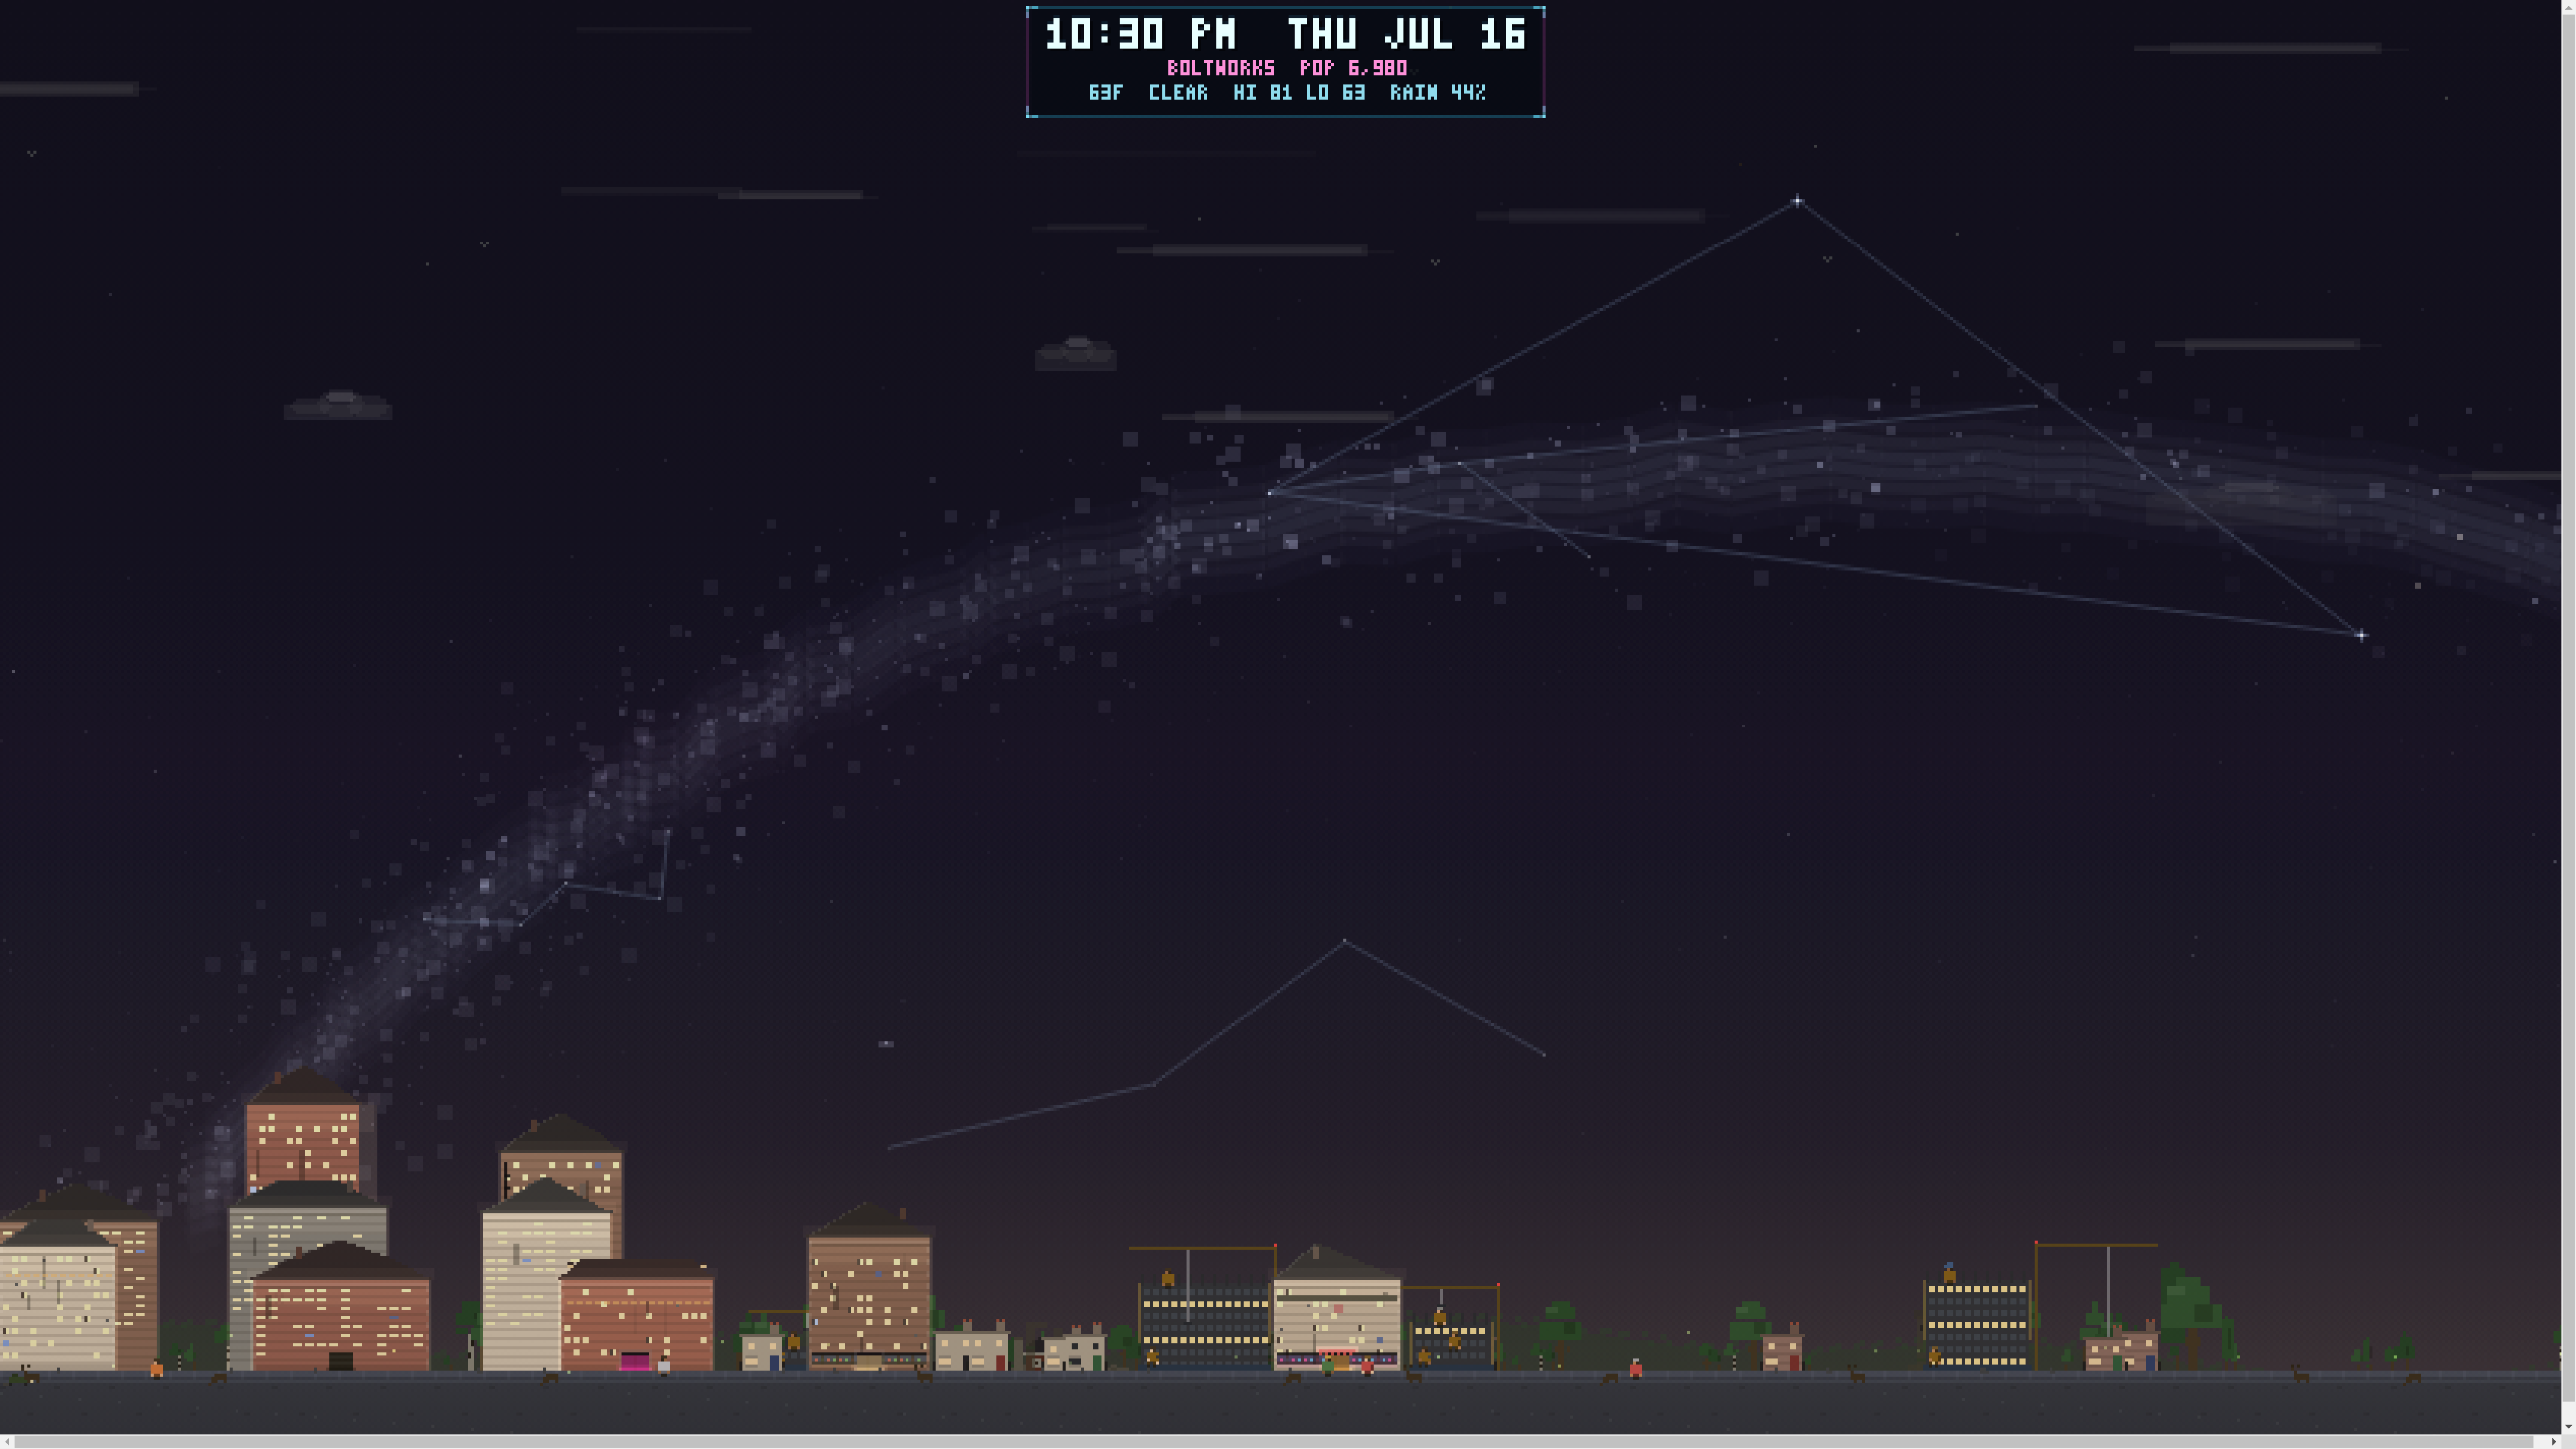
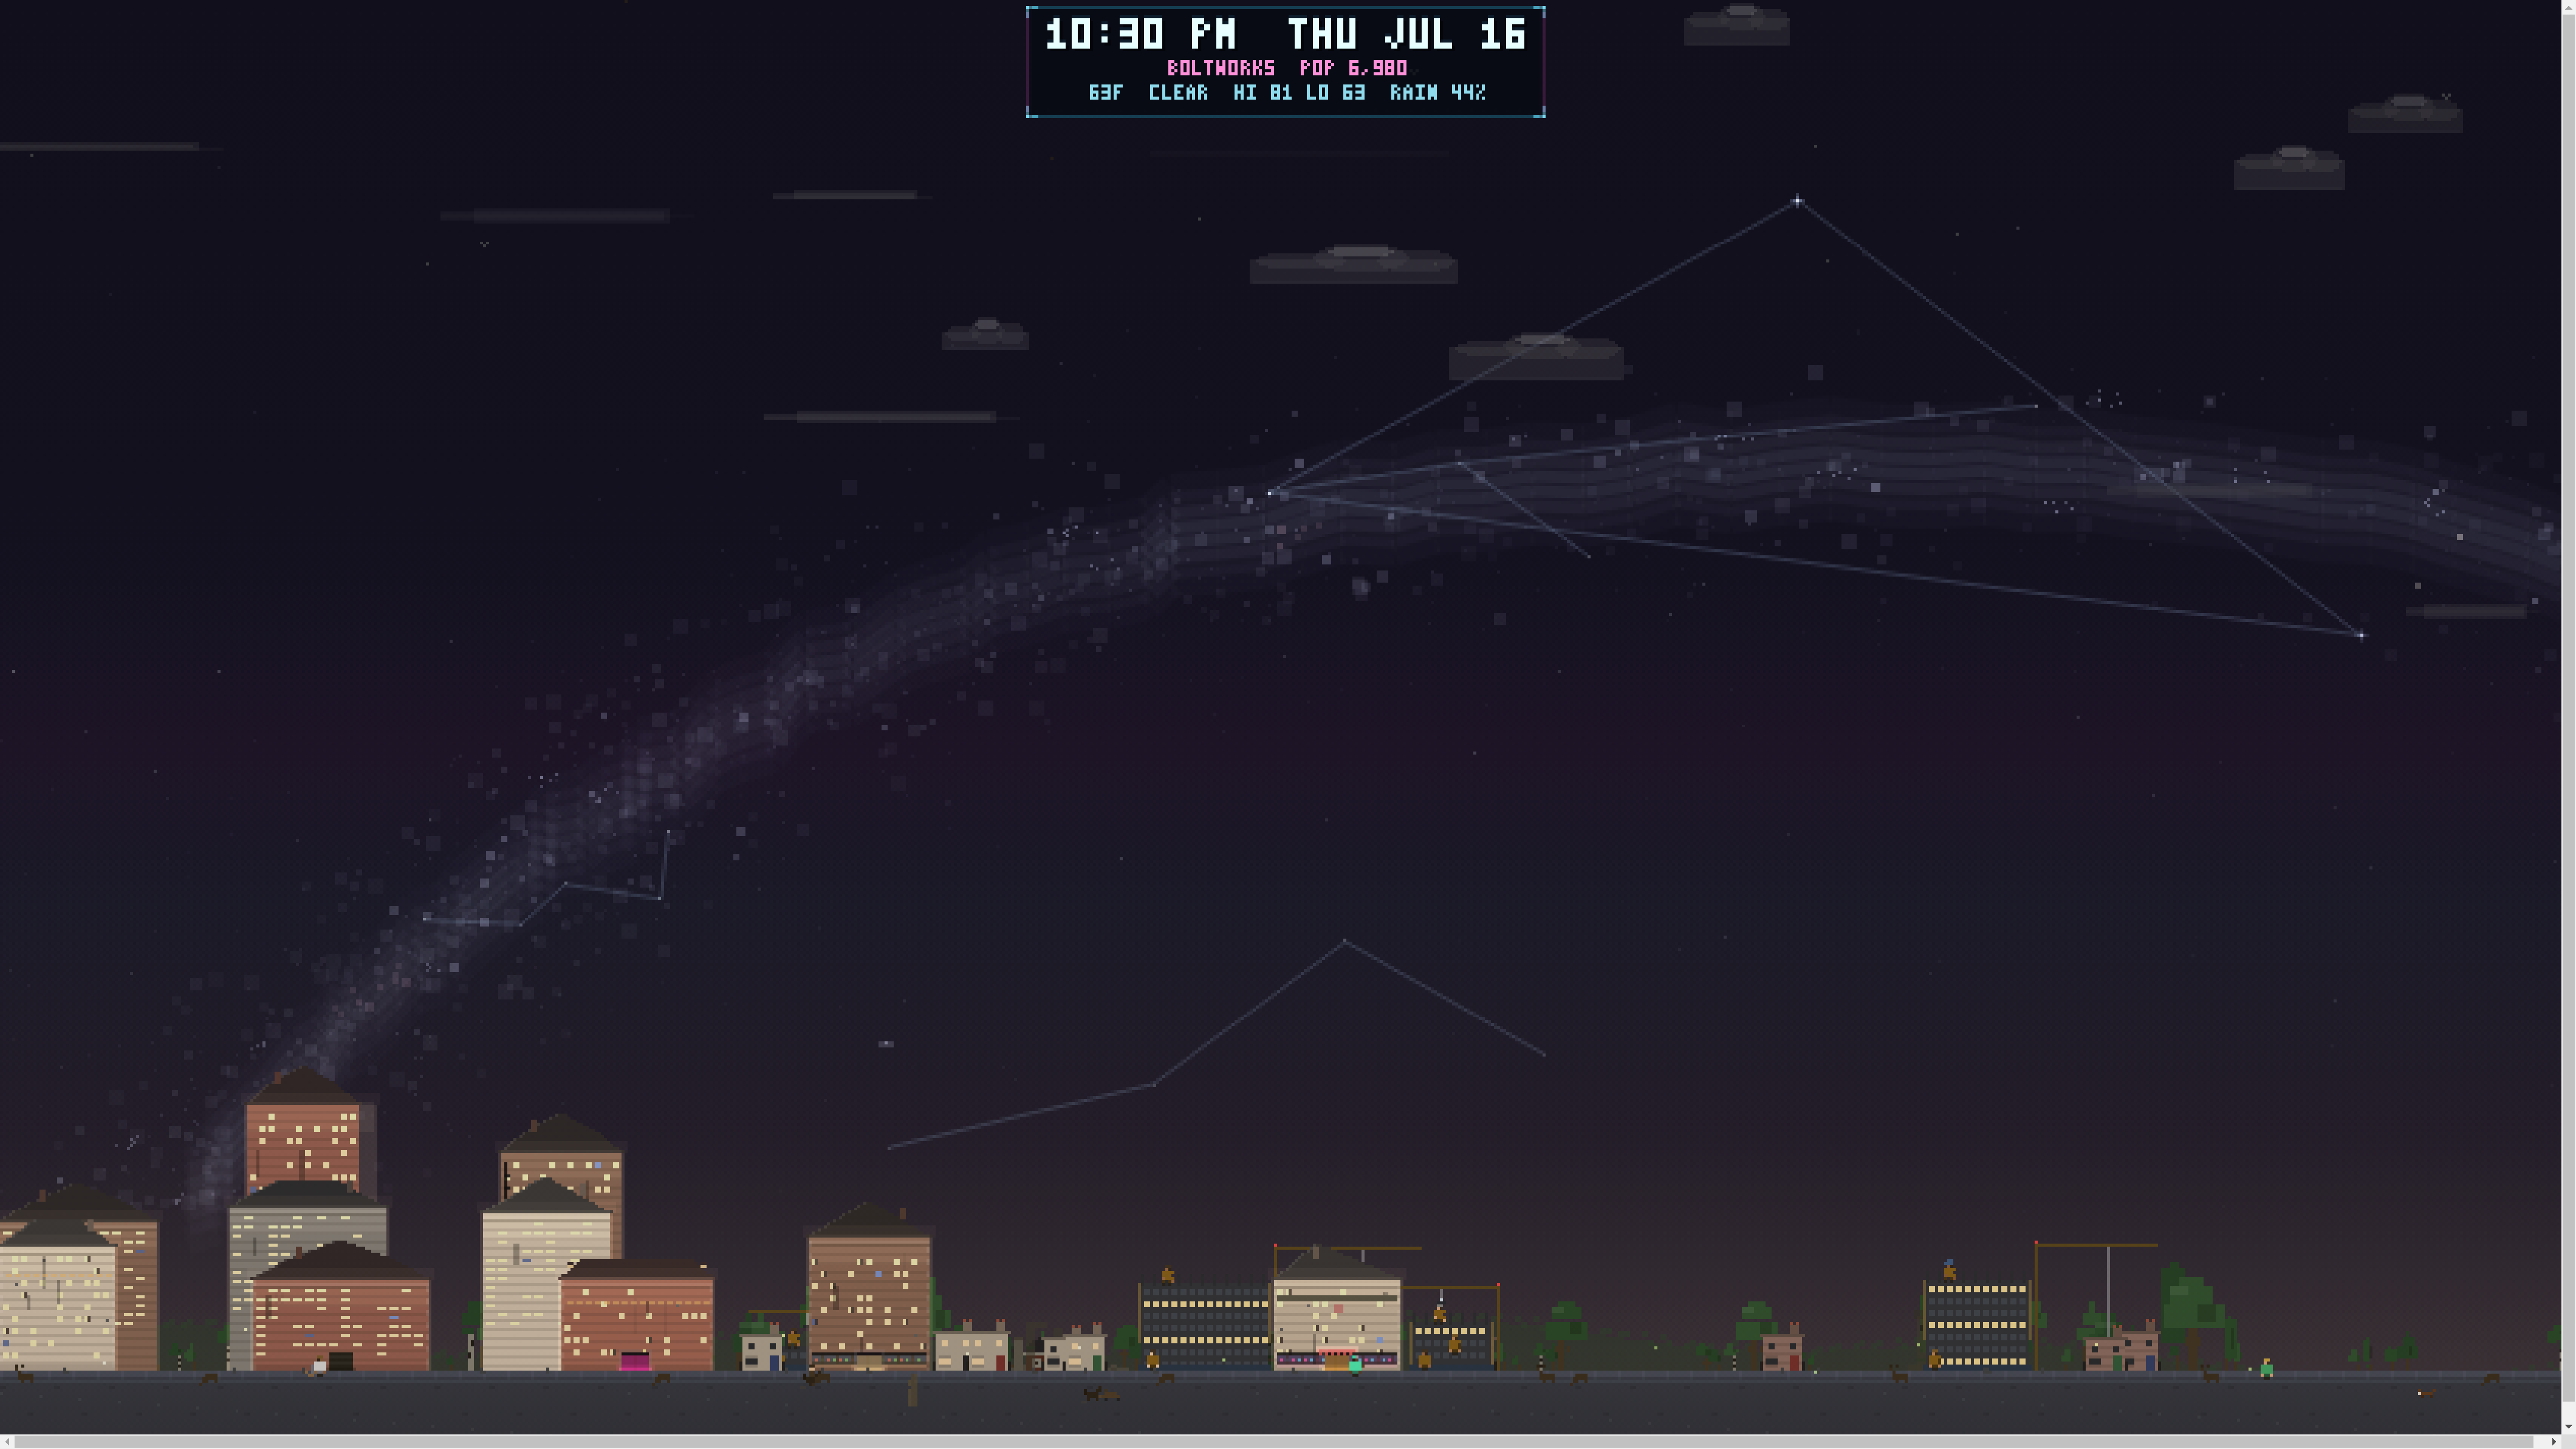
Polish: Milky Way v4 — cloud detail (Nick: 'more detail, better start')
- RAGGED rift edges: deterministic wobble on all three dust-channel boundaries — torn, not ruled.
- 26 scattered DARK CLOUDLETS pock the band with small dust holes beyond the big rift.
- PATCHY CLUMPING field billows the brightness along the band (cloud texture, not fog);
  applied strongly to the grain, gently to the haze body.
- EMISSION NEBULAE (c=2 rose H-alpha): Lagoon/Omega/Eagle at the core, North America by
  Deneb, Heart & Soul in Cassiopeia, Rho Oph, Vela — 8 rosy patches at their real homes.
- 22 EMBEDDED STAR CLUSTERS: tight sparkling knots of resolved stars riding the band.
- Perf 7.2ms. qml sweep (34) SWEEP_OK. Synced x4.

Claude-Session: https://claude.ai/code/session_01Fcpq7p4KAqg44eJBRLN5J2

diff --git a/desktop/renderer/city.js b/desktop/renderer/city.js
@@ -501,11 +501,19 @@ function buildMilkyWay(){
   // band at VISUAL width: latitude spreads here are ~3x the real sky so the river occupies a real slab of
   // screen the way it does in a wide-angle astrophoto.
   function riftK(l,b){                                              // 0=deep dust … 1=clear
-    if((l<=66)&&(b>-7&&b<1.0)) return 0;                            // main rift channel (Aquila→Sagittarius)
-    if((l>=24&&l<=58)&&(b>2.6&&b<5.8)) return 0.25;                 // thinner northern filament (braided look)
-    if((l>=62&&l<=84)&&(b>-4.6&&b<1.8)) return 0.15;                // the Cygnus rift (the split starts at the Northern Cross)
+    var e1=Math.sin(l*0.31)*1.6+Math.sin(l*0.83)*0.9;               // RAGGED channel edges (deterministic wobble),
+    var e2=Math.sin(l*0.47+2)*1.2+Math.sin(l*1.1)*0.6;              // so the dust looks torn, not ruled
+    if((l<=66)&&(b>-7+e1&&b<1.0+e2)) return 0;                      // main rift channel (Aquila→Sagittarius)
+    if((l>=24&&l<=58)&&(b>2.6+e2*0.5&&b<5.8+e1*0.5)) return 0.25;   // thinner northern filament (braided look)
+    if((l>=62&&l<=84)&&(b>-4.6+e1&&b<1.8+e2)) return 0.15;          // the Cygnus rift (the split starts at the Northern Cross)
     return 1;
   }
+  // scattered DARK CLOUDLETS — small torn holes of dust pocking the band (beyond the big rift)
+  var DKP=[]; for(var dk=0;dk<26;dk++) DKP.push({l:r()*360, b:gB(7), rad:1.5+r()*3});
+  function darkK(l,b){ for(var q=0;q<DKP.length;q++){ var P=DKP[q], dl=Math.abs(l-P.l); if(dl>180) dl=360-dl;
+      if(dl*dl+(b-P.b)*(b-P.b)<P.rad*P.rad) return 0.25; } return 1; }
+  // PATCHY CLUMPING — the band's brightness billows and thins along its length (cloud texture, not gradient)
+  function clumpK(l,b){ return 0.62+0.38*Math.sin(l*0.9+b*0.8)*Math.sin(l*0.23+1.7)+0.18*Math.sin(l*2.1+b*1.9); }
   for(var l2=0;l2<360;l2+=1){
     var d02=Math.min(l2,360-l2), bulge2=d02<50?(1-d02/50):0;        // the core bulge is BIG in a real sky
     var cloud=1 + 1.5*bulge2                                        // Sagittarius core glow
@@ -516,16 +524,19 @@ function buildMilkyWay(){
       var bh2=gB(10)*(1+0.8*bulge2);
       var wh2=(0.050+0.070*cloud)*Math.max(0.10,1-Math.abs(bh2)/22);
       var rk2=riftK(l2,bh2); wh2*=(0.35+0.65*rk2);
+      wh2*=Math.max(0.45,clumpK(l2,bh2));                            // the cloud body billows too (gentler than the grain)
       if(r()<0.10) continue;
       var eh2=galToEq(l2+r()-0.5,bh2);
       MWDABS.push({ra:eh2[0],dec:eh2[1],w:wh2,sz:(h2===0?5:(h2===1?4:3)),c:(bulge2>0.35&&r()<0.55)?1:0});
     }
-    // layer 2 — GRAIN: the fine mottle of millions of unresolved stars (the rift cuts these hard)
+    // layer 2 — GRAIN: the fine mottle of millions of unresolved stars (the rift cuts these hard;
+    // cloudlets poke holes; clumping billows the brightness so the texture reads like cloud, not fog)
     var n=(l2%2===0)?5:4;
     for(var s2=0;s2<n;s2++){
       var b2=gB(8)*(1+0.8*bulge2)+gB(4);
       var wgt=(0.08+0.10*cloud)*Math.max(0.12,1-Math.abs(b2)/24);
       var rk3=riftK(l2,b2); wgt*=(0.08+0.92*rk3);
+      wgt*=darkK(l2,b2)*Math.max(0.25,clumpK(l2,b2));
       if(r()<0.12) continue;
       var e2=galToEq(l2+r()-0.5,b2);
       MWDABS.push({ra:e2[0],dec:e2[1],w:wgt,sz:(r()<0.30?2:1),c:(bulge2>0.3&&r()<0.6)?1:0});
@@ -538,6 +549,16 @@ function buildMilkyWay(){
   }
   for(var k=0;k<90;k++){ var kl=r()*360, kd=Math.min(kl,360-kl);    // bright knots & clumps riding the band
     var kk=galToEq(kl,gB(7)); MWDABS.push({ra:kk[0],dec:kk[1],w:0.20+0.15*r()*(kd<55?1.5:1),sz:(r()<0.4?3:2),c:(kd<55&&r()<0.55)?1:0}); }
+  // EMISSION NEBULAE — the rosy H-alpha patches of the real band, at their real homes: Lagoon & Omega &
+  // Eagle (near the core), the North America nebula by Deneb, the Heart & Soul in Cassiopeia
+  var NEBS=[[6,-1.5],[15,-0.8],[17,0.8],[85,-1.2],[134,0.9],[137,1.2],[353,1.4],[265,-1.4]];
+  for(var nb=0;nb<NEBS.length;nb++){ var NB=NEBS[nb];
+    for(var np=0;np<5;np++){ var ne9=galToEq(NB[0]+gB(1.4),NB[1]+gB(1.1));
+      MWDABS.push({ra:ne9[0],dec:ne9[1],w:0.10+0.10*r(),sz:(np===0?3:2),c:2}); } }                     // c=2 → rose glow
+  // EMBEDDED STAR CLUSTERS — tight sparkling knots of resolved stars sitting IN the band
+  for(var cl9=0;cl9<22;cl9++){ var cll=r()*360, clb=gB(6);
+    for(var cs9=0,cn9=4+((r()*3)|0);cs9<cn9;cs9++){ var ce9=galToEq(cll+gB(0.9),clb+gB(0.7));
+      MWDABS.push({ra:ce9[0],dec:ce9[1],w:0.26+0.18*r(),sz:1,c:0}); } }
 }
 
 // draw the real Norwich star field + moon (only when dark & clear)
@@ -1651,7 +1672,9 @@ function drawSky(g,now,nd,L,fx){
   for(var di=0;di<MWDABS.length;di+=mwStride){ var dd=MWDABS[di], da=altAz(dd.ra,dd.dec,lst); if(da.alt<2) continue;
     var vfd=Math.min(1,(1-lpK)*(da.alt>50?1.5:1)), dma=dd.w*fade*vfd; if(dma<0.02) continue;
     var dwx=skyWX(da.az), dwy=skyY(da.alt);
-    g.fillStyle=dd.c?("rgba(240,228,200,"+dma.toFixed(3)+")"):("rgba(212,220,246,"+dma.toFixed(3)+")");
+    g.fillStyle=dd.c===2?("rgba(248,186,200,"+dma.toFixed(3)+")")                       // rose H-alpha nebulae
+               :dd.c===1?("rgba(240,228,200,"+dma.toFixed(3)+")")                       // warm-gold core clouds
+               :("rgba(212,220,246,"+dma.toFixed(3)+")");                               // blue-white starlight
     for(var dw=-1;dw<=1;dw++){ var dsx=dwx-WOFF+dw*WW; if(dsx<-2||dsx>SW+2) continue; g.fillRect(dsx|0,dwy|0,dd.sz,dd.sz); } }
   // ANDROMEDA — the faint elongated smudge of M31, the farthest thing a naked eye can reach
   var anda=altAz(0.712,41.27,lst);

diff --git a/org.citylive.wallpaper/contents/js/city.js b/org.citylive.wallpaper/contents/js/city.js
@@ -501,11 +501,19 @@ function buildMilkyWay(){
   // band at VISUAL width: latitude spreads here are ~3x the real sky so the river occupies a real slab of
   // screen the way it does in a wide-angle astrophoto.
   function riftK(l,b){                                              // 0=deep dust … 1=clear
-    if((l<=66)&&(b>-7&&b<1.0)) return 0;                            // main rift channel (Aquila→Sagittarius)
-    if((l>=24&&l<=58)&&(b>2.6&&b<5.8)) return 0.25;                 // thinner northern filament (braided look)
-    if((l>=62&&l<=84)&&(b>-4.6&&b<1.8)) return 0.15;                // the Cygnus rift (the split starts at the Northern Cross)
+    var e1=Math.sin(l*0.31)*1.6+Math.sin(l*0.83)*0.9;               // RAGGED channel edges (deterministic wobble),
+    var e2=Math.sin(l*0.47+2)*1.2+Math.sin(l*1.1)*0.6;              // so the dust looks torn, not ruled
+    if((l<=66)&&(b>-7+e1&&b<1.0+e2)) return 0;                      // main rift channel (Aquila→Sagittarius)
+    if((l>=24&&l<=58)&&(b>2.6+e2*0.5&&b<5.8+e1*0.5)) return 0.25;   // thinner northern filament (braided look)
+    if((l>=62&&l<=84)&&(b>-4.6+e1&&b<1.8+e2)) return 0.15;          // the Cygnus rift (the split starts at the Northern Cross)
     return 1;
   }
+  // scattered DARK CLOUDLETS — small torn holes of dust pocking the band (beyond the big rift)
+  var DKP=[]; for(var dk=0;dk<26;dk++) DKP.push({l:r()*360, b:gB(7), rad:1.5+r()*3});
+  function darkK(l,b){ for(var q=0;q<DKP.length;q++){ var P=DKP[q], dl=Math.abs(l-P.l); if(dl>180) dl=360-dl;
+      if(dl*dl+(b-P.b)*(b-P.b)<P.rad*P.rad) return 0.25; } return 1; }
+  // PATCHY CLUMPING — the band's brightness billows and thins along its length (cloud texture, not gradient)
+  function clumpK(l,b){ return 0.62+0.38*Math.sin(l*0.9+b*0.8)*Math.sin(l*0.23+1.7)+0.18*Math.sin(l*2.1+b*1.9); }
   for(var l2=0;l2<360;l2+=1){
     var d02=Math.min(l2,360-l2), bulge2=d02<50?(1-d02/50):0;        // the core bulge is BIG in a real sky
     var cloud=1 + 1.5*bulge2                                        // Sagittarius core glow
@@ -516,16 +524,19 @@ function buildMilkyWay(){
       var bh2=gB(10)*(1+0.8*bulge2);
       var wh2=(0.050+0.070*cloud)*Math.max(0.10,1-Math.abs(bh2)/22);
       var rk2=riftK(l2,bh2); wh2*=(0.35+0.65*rk2);
+      wh2*=Math.max(0.45,clumpK(l2,bh2));                            // the cloud body billows too (gentler than the grain)
       if(r()<0.10) continue;
       var eh2=galToEq(l2+r()-0.5,bh2);
       MWDABS.push({ra:eh2[0],dec:eh2[1],w:wh2,sz:(h2===0?5:(h2===1?4:3)),c:(bulge2>0.35&&r()<0.55)?1:0});
     }
-    // layer 2 — GRAIN: the fine mottle of millions of unresolved stars (the rift cuts these hard)
+    // layer 2 — GRAIN: the fine mottle of millions of unresolved stars (the rift cuts these hard;
+    // cloudlets poke holes; clumping billows the brightness so the texture reads like cloud, not fog)
     var n=(l2%2===0)?5:4;
     for(var s2=0;s2<n;s2++){
       var b2=gB(8)*(1+0.8*bulge2)+gB(4);
       var wgt=(0.08+0.10*cloud)*Math.max(0.12,1-Math.abs(b2)/24);
       var rk3=riftK(l2,b2); wgt*=(0.08+0.92*rk3);
+      wgt*=darkK(l2,b2)*Math.max(0.25,clumpK(l2,b2));
       if(r()<0.12) continue;
       var e2=galToEq(l2+r()-0.5,b2);
       MWDABS.push({ra:e2[0],dec:e2[1],w:wgt,sz:(r()<0.30?2:1),c:(bulge2>0.3&&r()<0.6)?1:0});
@@ -538,6 +549,16 @@ function buildMilkyWay(){
   }
   for(var k=0;k<90;k++){ var kl=r()*360, kd=Math.min(kl,360-kl);    // bright knots & clumps riding the band
     var kk=galToEq(kl,gB(7)); MWDABS.push({ra:kk[0],dec:kk[1],w:0.20+0.15*r()*(kd<55?1.5:1),sz:(r()<0.4?3:2),c:(kd<55&&r()<0.55)?1:0}); }
+  // EMISSION NEBULAE — the rosy H-alpha patches of the real band, at their real homes: Lagoon & Omega &
+  // Eagle (near the core), the North America nebula by Deneb, the Heart & Soul in Cassiopeia
+  var NEBS=[[6,-1.5],[15,-0.8],[17,0.8],[85,-1.2],[134,0.9],[137,1.2],[353,1.4],[265,-1.4]];
+  for(var nb=0;nb<NEBS.length;nb++){ var NB=NEBS[nb];
+    for(var np=0;np<5;np++){ var ne9=galToEq(NB[0]+gB(1.4),NB[1]+gB(1.1));
+      MWDABS.push({ra:ne9[0],dec:ne9[1],w:0.10+0.10*r(),sz:(np===0?3:2),c:2}); } }                     // c=2 → rose glow
+  // EMBEDDED STAR CLUSTERS — tight sparkling knots of resolved stars sitting IN the band
+  for(var cl9=0;cl9<22;cl9++){ var cll=r()*360, clb=gB(6);
+    for(var cs9=0,cn9=4+((r()*3)|0);cs9<cn9;cs9++){ var ce9=galToEq(cll+gB(0.9),clb+gB(0.7));
+      MWDABS.push({ra:ce9[0],dec:ce9[1],w:0.26+0.18*r(),sz:1,c:0}); } }
 }
 
 // draw the real Norwich star field + moon (only when dark & clear)
@@ -1651,7 +1672,9 @@ function drawSky(g,now,nd,L,fx){
   for(var di=0;di<MWDABS.length;di+=mwStride){ var dd=MWDABS[di], da=altAz(dd.ra,dd.dec,lst); if(da.alt<2) continue;
     var vfd=Math.min(1,(1-lpK)*(da.alt>50?1.5:1)), dma=dd.w*fade*vfd; if(dma<0.02) continue;
     var dwx=skyWX(da.az), dwy=skyY(da.alt);
-    g.fillStyle=dd.c?("rgba(240,228,200,"+dma.toFixed(3)+")"):("rgba(212,220,246,"+dma.toFixed(3)+")");
+    g.fillStyle=dd.c===2?("rgba(248,186,200,"+dma.toFixed(3)+")")                       // rose H-alpha nebulae
+               :dd.c===1?("rgba(240,228,200,"+dma.toFixed(3)+")")                       // warm-gold core clouds
+               :("rgba(212,220,246,"+dma.toFixed(3)+")");                               // blue-white starlight
     for(var dw=-1;dw<=1;dw++){ var dsx=dwx-WOFF+dw*WW; if(dsx<-2||dsx>SW+2) continue; g.fillRect(dsx|0,dwy|0,dd.sz,dd.sz); } }
   // ANDROMEDA — the faint elongated smudge of M31, the farthest thing a naked eye can reach
   var anda=altAz(0.712,41.27,lst);

diff --git a/phone/city.js b/phone/city.js
@@ -501,11 +501,19 @@ function buildMilkyWay(){
   // band at VISUAL width: latitude spreads here are ~3x the real sky so the river occupies a real slab of
   // screen the way it does in a wide-angle astrophoto.
   function riftK(l,b){                                              // 0=deep dust … 1=clear
-    if((l<=66)&&(b>-7&&b<1.0)) return 0;                            // main rift channel (Aquila→Sagittarius)
-    if((l>=24&&l<=58)&&(b>2.6&&b<5.8)) return 0.25;                 // thinner northern filament (braided look)
-    if((l>=62&&l<=84)&&(b>-4.6&&b<1.8)) return 0.15;                // the Cygnus rift (the split starts at the Northern Cross)
+    var e1=Math.sin(l*0.31)*1.6+Math.sin(l*0.83)*0.9;               // RAGGED channel edges (deterministic wobble),
+    var e2=Math.sin(l*0.47+2)*1.2+Math.sin(l*1.1)*0.6;              // so the dust looks torn, not ruled
+    if((l<=66)&&(b>-7+e1&&b<1.0+e2)) return 0;                      // main rift channel (Aquila→Sagittarius)
+    if((l>=24&&l<=58)&&(b>2.6+e2*0.5&&b<5.8+e1*0.5)) return 0.25;   // thinner northern filament (braided look)
+    if((l>=62&&l<=84)&&(b>-4.6+e1&&b<1.8+e2)) return 0.15;          // the Cygnus rift (the split starts at the Northern Cross)
     return 1;
   }
+  // scattered DARK CLOUDLETS — small torn holes of dust pocking the band (beyond the big rift)
+  var DKP=[]; for(var dk=0;dk<26;dk++) DKP.push({l:r()*360, b:gB(7), rad:1.5+r()*3});
+  function darkK(l,b){ for(var q=0;q<DKP.length;q++){ var P=DKP[q], dl=Math.abs(l-P.l); if(dl>180) dl=360-dl;
+      if(dl*dl+(b-P.b)*(b-P.b)<P.rad*P.rad) return 0.25; } return 1; }
+  // PATCHY CLUMPING — the band's brightness billows and thins along its length (cloud texture, not gradient)
+  function clumpK(l,b){ return 0.62+0.38*Math.sin(l*0.9+b*0.8)*Math.sin(l*0.23+1.7)+0.18*Math.sin(l*2.1+b*1.9); }
   for(var l2=0;l2<360;l2+=1){
     var d02=Math.min(l2,360-l2), bulge2=d02<50?(1-d02/50):0;        // the core bulge is BIG in a real sky
     var cloud=1 + 1.5*bulge2                                        // Sagittarius core glow
@@ -516,16 +524,19 @@ function buildMilkyWay(){
       var bh2=gB(10)*(1+0.8*bulge2);
       var wh2=(0.050+0.070*cloud)*Math.max(0.10,1-Math.abs(bh2)/22);
       var rk2=riftK(l2,bh2); wh2*=(0.35+0.65*rk2);
+      wh2*=Math.max(0.45,clumpK(l2,bh2));                            // the cloud body billows too (gentler than the grain)
       if(r()<0.10) continue;
       var eh2=galToEq(l2+r()-0.5,bh2);
       MWDABS.push({ra:eh2[0],dec:eh2[1],w:wh2,sz:(h2===0?5:(h2===1?4:3)),c:(bulge2>0.35&&r()<0.55)?1:0});
     }
-    // layer 2 — GRAIN: the fine mottle of millions of unresolved stars (the rift cuts these hard)
+    // layer 2 — GRAIN: the fine mottle of millions of unresolved stars (the rift cuts these hard;
+    // cloudlets poke holes; clumping billows the brightness so the texture reads like cloud, not fog)
     var n=(l2%2===0)?5:4;
     for(var s2=0;s2<n;s2++){
       var b2=gB(8)*(1+0.8*bulge2)+gB(4);
       var wgt=(0.08+0.10*cloud)*Math.max(0.12,1-Math.abs(b2)/24);
       var rk3=riftK(l2,b2); wgt*=(0.08+0.92*rk3);
+      wgt*=darkK(l2,b2)*Math.max(0.25,clumpK(l2,b2));
       if(r()<0.12) continue;
       var e2=galToEq(l2+r()-0.5,b2);
       MWDABS.push({ra:e2[0],dec:e2[1],w:wgt,sz:(r()<0.30?2:1),c:(bulge2>0.3&&r()<0.6)?1:0});
@@ -538,6 +549,16 @@ function buildMilkyWay(){
   }
   for(var k=0;k<90;k++){ var kl=r()*360, kd=Math.min(kl,360-kl);    // bright knots & clumps riding the band
     var kk=galToEq(kl,gB(7)); MWDABS.push({ra:kk[0],dec:kk[1],w:0.20+0.15*r()*(kd<55?1.5:1),sz:(r()<0.4?3:2),c:(kd<55&&r()<0.55)?1:0}); }
+  // EMISSION NEBULAE — the rosy H-alpha patches of the real band, at their real homes: Lagoon & Omega &
+  // Eagle (near the core), the North America nebula by Deneb, the Heart & Soul in Cassiopeia
+  var NEBS=[[6,-1.5],[15,-0.8],[17,0.8],[85,-1.2],[134,0.9],[137,1.2],[353,1.4],[265,-1.4]];
+  for(var nb=0;nb<NEBS.length;nb++){ var NB=NEBS[nb];
+    for(var np=0;np<5;np++){ var ne9=galToEq(NB[0]+gB(1.4),NB[1]+gB(1.1));
+      MWDABS.push({ra:ne9[0],dec:ne9[1],w:0.10+0.10*r(),sz:(np===0?3:2),c:2}); } }                     // c=2 → rose glow
+  // EMBEDDED STAR CLUSTERS — tight sparkling knots of resolved stars sitting IN the band
+  for(var cl9=0;cl9<22;cl9++){ var cll=r()*360, clb=gB(6);
+    for(var cs9=0,cn9=4+((r()*3)|0);cs9<cn9;cs9++){ var ce9=galToEq(cll+gB(0.9),clb+gB(0.7));
+      MWDABS.push({ra:ce9[0],dec:ce9[1],w:0.26+0.18*r(),sz:1,c:0}); } }
 }
 
 // draw the real Norwich star field + moon (only when dark & clear)
@@ -1651,7 +1672,9 @@ function drawSky(g,now,nd,L,fx){
   for(var di=0;di<MWDABS.length;di+=mwStride){ var dd=MWDABS[di], da=altAz(dd.ra,dd.dec,lst); if(da.alt<2) continue;
     var vfd=Math.min(1,(1-lpK)*(da.alt>50?1.5:1)), dma=dd.w*fade*vfd; if(dma<0.02) continue;
     var dwx=skyWX(da.az), dwy=skyY(da.alt);
-    g.fillStyle=dd.c?("rgba(240,228,200,"+dma.toFixed(3)+")"):("rgba(212,220,246,"+dma.toFixed(3)+")");
+    g.fillStyle=dd.c===2?("rgba(248,186,200,"+dma.toFixed(3)+")")                       // rose H-alpha nebulae
+               :dd.c===1?("rgba(240,228,200,"+dma.toFixed(3)+")")                       // warm-gold core clouds
+               :("rgba(212,220,246,"+dma.toFixed(3)+")");                               // blue-white starlight
     for(var dw=-1;dw<=1;dw++){ var dsx=dwx-WOFF+dw*WW; if(dsx<-2||dsx>SW+2) continue; g.fillRect(dsx|0,dwy|0,dd.sz,dd.sz); } }
   // ANDROMEDA — the faint elongated smudge of M31, the farthest thing a naked eye can reach
   var anda=altAz(0.712,41.27,lst);

diff --git a/web/city.js b/web/city.js
@@ -501,11 +501,19 @@ function buildMilkyWay(){
   // band at VISUAL width: latitude spreads here are ~3x the real sky so the river occupies a real slab of
   // screen the way it does in a wide-angle astrophoto.
   function riftK(l,b){                                              // 0=deep dust … 1=clear
-    if((l<=66)&&(b>-7&&b<1.0)) return 0;                            // main rift channel (Aquila→Sagittarius)
-    if((l>=24&&l<=58)&&(b>2.6&&b<5.8)) return 0.25;                 // thinner northern filament (braided look)
-    if((l>=62&&l<=84)&&(b>-4.6&&b<1.8)) return 0.15;                // the Cygnus rift (the split starts at the Northern Cross)
+    var e1=Math.sin(l*0.31)*1.6+Math.sin(l*0.83)*0.9;               // RAGGED channel edges (deterministic wobble),
+    var e2=Math.sin(l*0.47+2)*1.2+Math.sin(l*1.1)*0.6;              // so the dust looks torn, not ruled
+    if((l<=66)&&(b>-7+e1&&b<1.0+e2)) return 0;                      // main rift channel (Aquila→Sagittarius)
+    if((l>=24&&l<=58)&&(b>2.6+e2*0.5&&b<5.8+e1*0.5)) return 0.25;   // thinner northern filament (braided look)
+    if((l>=62&&l<=84)&&(b>-4.6+e1&&b<1.8+e2)) return 0.15;          // the Cygnus rift (the split starts at the Northern Cross)
     return 1;
   }
+  // scattered DARK CLOUDLETS — small torn holes of dust pocking the band (beyond the big rift)
+  var DKP=[]; for(var dk=0;dk<26;dk++) DKP.push({l:r()*360, b:gB(7), rad:1.5+r()*3});
+  function darkK(l,b){ for(var q=0;q<DKP.length;q++){ var P=DKP[q], dl=Math.abs(l-P.l); if(dl>180) dl=360-dl;
+      if(dl*dl+(b-P.b)*(b-P.b)<P.rad*P.rad) return 0.25; } return 1; }
+  // PATCHY CLUMPING — the band's brightness billows and thins along its length (cloud texture, not gradient)
+  function clumpK(l,b){ return 0.62+0.38*Math.sin(l*0.9+b*0.8)*Math.sin(l*0.23+1.7)+0.18*Math.sin(l*2.1+b*1.9); }
   for(var l2=0;l2<360;l2+=1){
     var d02=Math.min(l2,360-l2), bulge2=d02<50?(1-d02/50):0;        // the core bulge is BIG in a real sky
     var cloud=1 + 1.5*bulge2                                        // Sagittarius core glow
@@ -516,16 +524,19 @@ function buildMilkyWay(){
       var bh2=gB(10)*(1+0.8*bulge2);
       var wh2=(0.050+0.070*cloud)*Math.max(0.10,1-Math.abs(bh2)/22);
       var rk2=riftK(l2,bh2); wh2*=(0.35+0.65*rk2);
+      wh2*=Math.max(0.45,clumpK(l2,bh2));                            // the cloud body billows too (gentler than the grain)
       if(r()<0.10) continue;
       var eh2=galToEq(l2+r()-0.5,bh2);
       MWDABS.push({ra:eh2[0],dec:eh2[1],w:wh2,sz:(h2===0?5:(h2===1?4:3)),c:(bulge2>0.35&&r()<0.55)?1:0});
     }
-    // layer 2 — GRAIN: the fine mottle of millions of unresolved stars (the rift cuts these hard)
+    // layer 2 — GRAIN: the fine mottle of millions of unresolved stars (the rift cuts these hard;
+    // cloudlets poke holes; clumping billows the brightness so the texture reads like cloud, not fog)
     var n=(l2%2===0)?5:4;
     for(var s2=0;s2<n;s2++){
       var b2=gB(8)*(1+0.8*bulge2)+gB(4);
       var wgt=(0.08+0.10*cloud)*Math.max(0.12,1-Math.abs(b2)/24);
       var rk3=riftK(l2,b2); wgt*=(0.08+0.92*rk3);
+      wgt*=darkK(l2,b2)*Math.max(0.25,clumpK(l2,b2));
       if(r()<0.12) continue;
       var e2=galToEq(l2+r()-0.5,b2);
       MWDABS.push({ra:e2[0],dec:e2[1],w:wgt,sz:(r()<0.30?2:1),c:(bulge2>0.3&&r()<0.6)?1:0});
@@ -538,6 +549,16 @@ function buildMilkyWay(){
   }
   for(var k=0;k<90;k++){ var kl=r()*360, kd=Math.min(kl,360-kl);    // bright knots & clumps riding the band
     var kk=galToEq(kl,gB(7)); MWDABS.push({ra:kk[0],dec:kk[1],w:0.20+0.15*r()*(kd<55?1.5:1),sz:(r()<0.4?3:2),c:(kd<55&&r()<0.55)?1:0}); }
+  // EMISSION NEBULAE — the rosy H-alpha patches of the real band, at their real homes: Lagoon & Omega &
+  // Eagle (near the core), the North America nebula by Deneb, the Heart & Soul in Cassiopeia
+  var NEBS=[[6,-1.5],[15,-0.8],[17,0.8],[85,-1.2],[134,0.9],[137,1.2],[353,1.4],[265,-1.4]];
+  for(var nb=0;nb<NEBS.length;nb++){ var NB=NEBS[nb];
+    for(var np=0;np<5;np++){ var ne9=galToEq(NB[0]+gB(1.4),NB[1]+gB(1.1));
+      MWDABS.push({ra:ne9[0],dec:ne9[1],w:0.10+0.10*r(),sz:(np===0?3:2),c:2}); } }                     // c=2 → rose glow
+  // EMBEDDED STAR CLUSTERS — tight sparkling knots of resolved stars sitting IN the band
+  for(var cl9=0;cl9<22;cl9++){ var cll=r()*360, clb=gB(6);
+    for(var cs9=0,cn9=4+((r()*3)|0);cs9<cn9;cs9++){ var ce9=galToEq(cll+gB(0.9),clb+gB(0.7));
+      MWDABS.push({ra:ce9[0],dec:ce9[1],w:0.26+0.18*r(),sz:1,c:0}); } }
 }
 
 // draw the real Norwich star field + moon (only when dark & clear)
@@ -1651,7 +1672,9 @@ function drawSky(g,now,nd,L,fx){
   for(var di=0;di<MWDABS.length;di+=mwStride){ var dd=MWDABS[di], da=altAz(dd.ra,dd.dec,lst); if(da.alt<2) continue;
     var vfd=Math.min(1,(1-lpK)*(da.alt>50?1.5:1)), dma=dd.w*fade*vfd; if(dma<0.02) continue;
     var dwx=skyWX(da.az), dwy=skyY(da.alt);
-    g.fillStyle=dd.c?("rgba(240,228,200,"+dma.toFixed(3)+")"):("rgba(212,220,246,"+dma.toFixed(3)+")");
+    g.fillStyle=dd.c===2?("rgba(248,186,200,"+dma.toFixed(3)+")")                       // rose H-alpha nebulae
+               :dd.c===1?("rgba(240,228,200,"+dma.toFixed(3)+")")                       // warm-gold core clouds
+               :("rgba(212,220,246,"+dma.toFixed(3)+")");                               // blue-white starlight
     for(var dw=-1;dw<=1;dw++){ var dsx=dwx-WOFF+dw*WW; if(dsx<-2||dsx>SW+2) continue; g.fillRect(dsx|0,dwy|0,dd.sz,dd.sz); } }
   // ANDROMEDA — the faint elongated smudge of M31, the farthest thing a naked eye can reach
   var anda=altAz(0.712,41.27,lst);